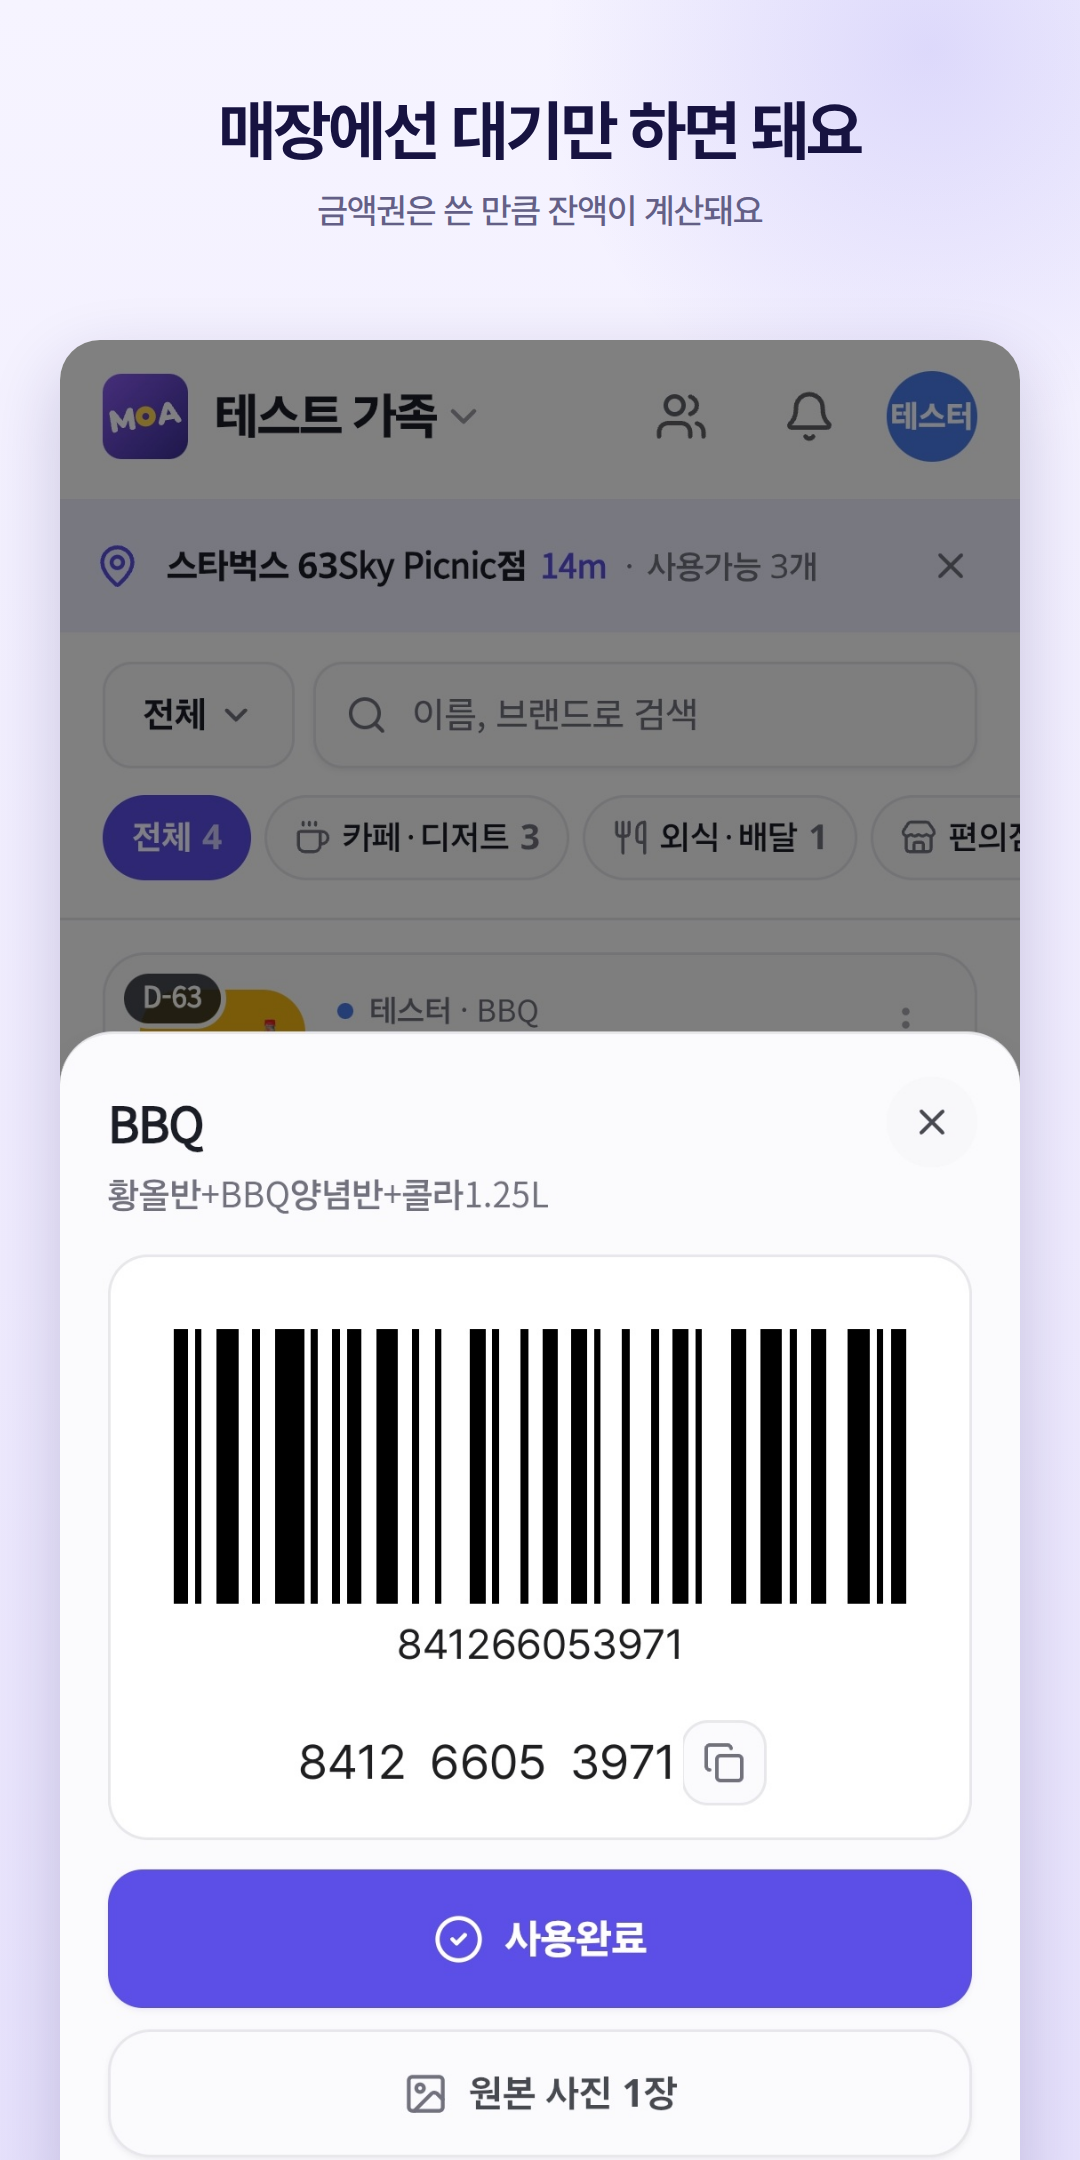
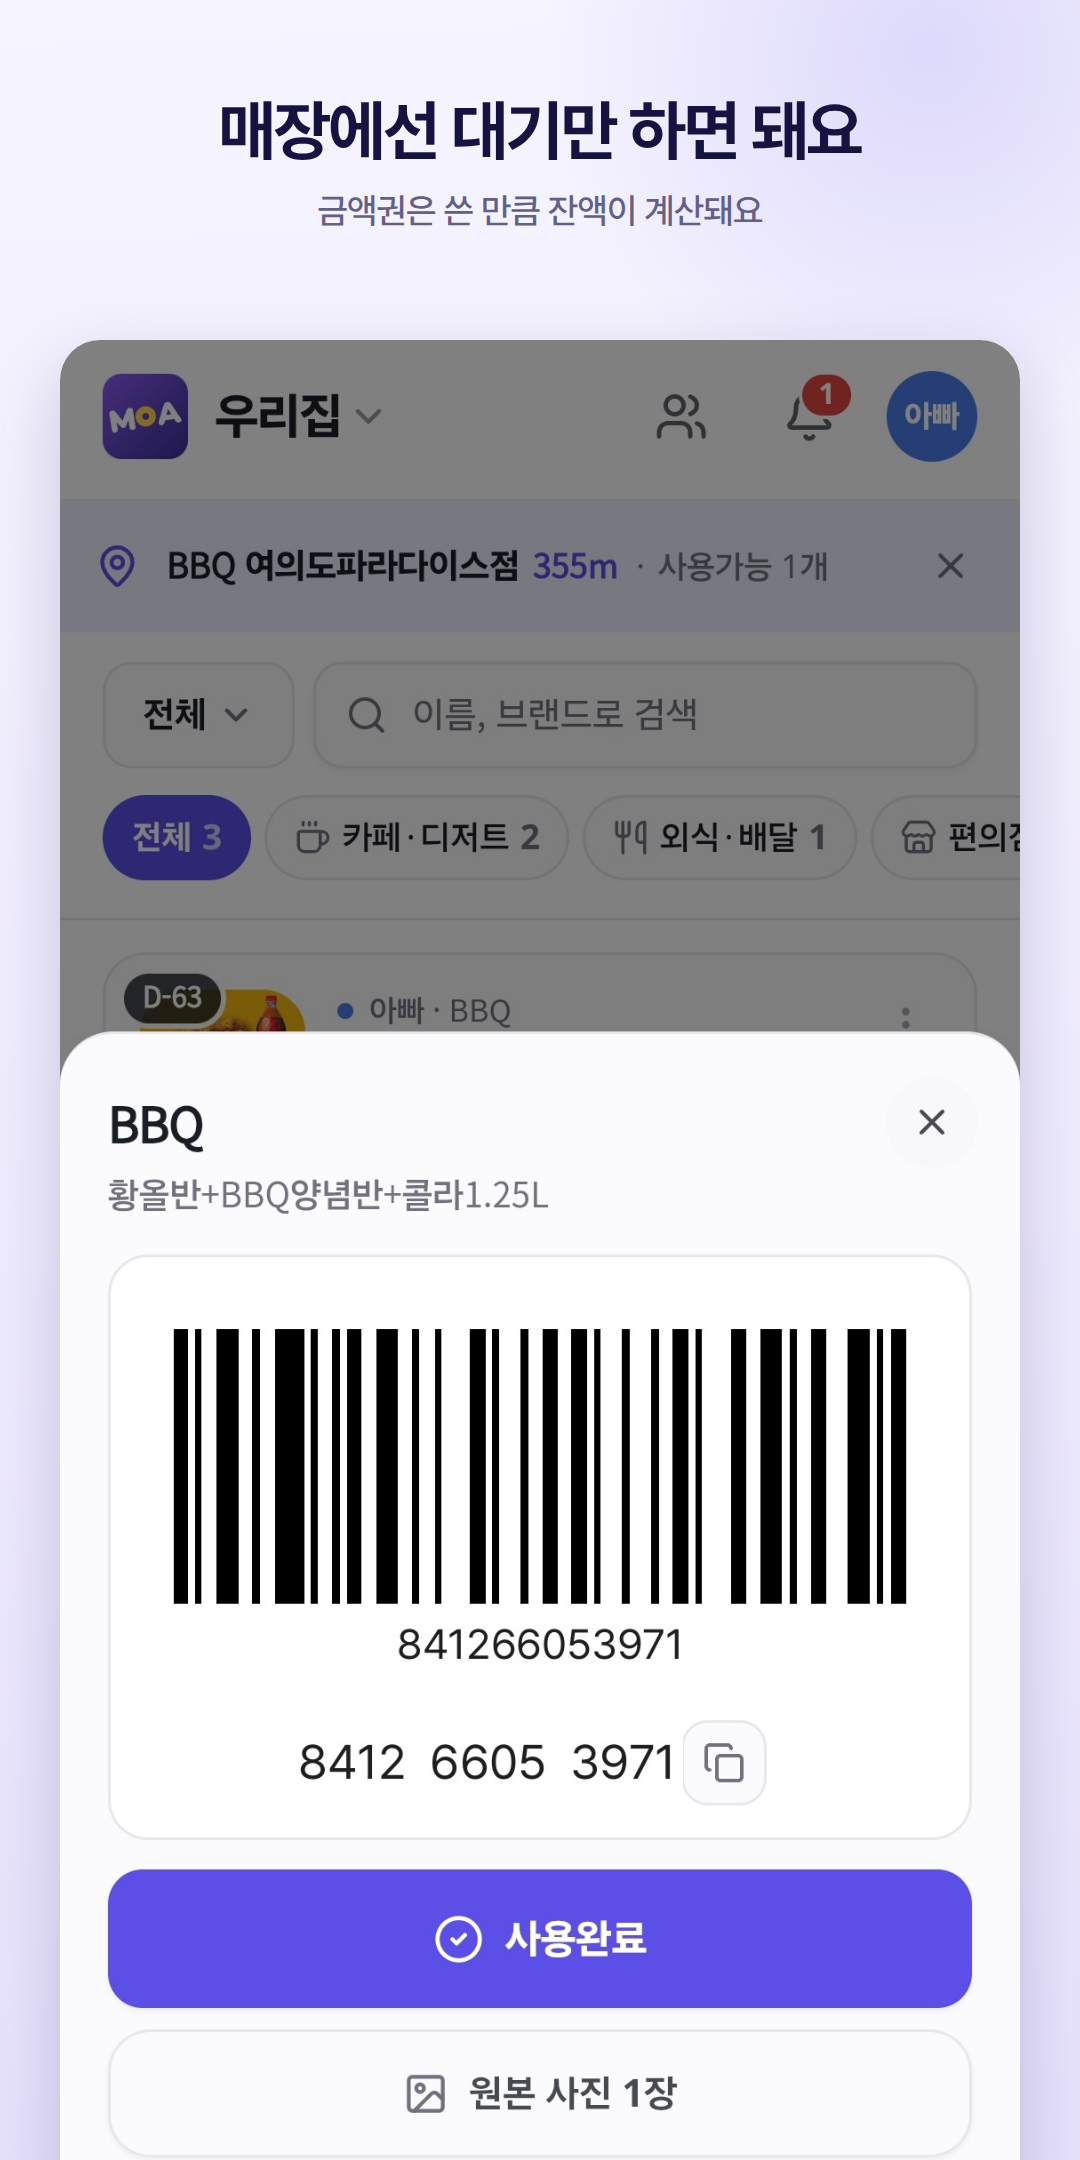
스토어 스크린샷을 우리집·아빠·딸로 다시
가족과 구성원 이름이 '테스트 가족'·'테스터'로 찍혀 있던 것을 실제 이름으로 다시
찍은 것으로 갈았다.

푸시는 이제 실물이다. 참여 신청 알림이 온 잠금화면을 찍었고, 만들어 쓰던 그림은
버렸다. 기한 임박 알림은 그 순간을 붙잡아야 해서 못 찍었으므로 문구에 둘을 함께
적는다 — 앱이 보내는 알림은 그 둘뿐이다.

BBQ 바코드는 이번에도 번호와 막대를 바꿔 넣었다. 상세·등록·미리보기 세 곳이다.

Claude-Session: https://claude.ai/code/session_0162SJJHihdyv8vNrHmvGXqM

diff --git a/docs/store-listing.md b/docs/store-listing.md
@@ -164,7 +164,7 @@ https://ceaser501.github.io/our-home-gift/privacy.html
 | 2 | `assets/marketing/screenshots/02-scan.png` | 사진첩 훑는 중 |
 | 3 | `assets/marketing/screenshots/03-form.png` | 자동으로 채워진 등록 화면 |
 | 4 | `assets/marketing/screenshots/04-barcode.png` | 상세 · 바코드 |
-| 5 | `assets/marketing/screenshots/05-push.png` | 알림 (실물이 없어 앱이 보내는 문구로 만든 것) |
+| 5 | `assets/marketing/screenshots/05-push.png` | 알림 (실제로 온 푸시) |
 | 6 | `assets/marketing/screenshots/06-map.png` | 근처 매장 · 길찾기 |
 | 7 | `assets/marketing/screenshots/07-invite.png` | 가족 초대 |
 | 8 | `assets/marketing/screenshots/08-stats.png` | 사용 내역 |
@@ -185,7 +185,7 @@ https://ceaser501.github.io/our-home-gift/privacy.html
 | 2 | 사진첩 훑는 중 (안드로이드) | 찾는 것부터 앱이 합니다 | 사진첩을 훑어 기프티콘만 골라내요 |
 | 3 | 자동으로 채워진 등록 화면 | 사진만 올리면 끝 | 상품명 · 금액 · 유효기한이 저절로 |
 | 4 | 상세 · 바코드 | 매장에선 대기만 하면 돼요 | 금액권은 쓴 만큼 잔액이 계산돼요 |
-| 5 | 기한 임박 푸시가 뜬 잠금화면 | 기한 놓칠 일이 없어요 | 만료 전에 알림으로 알려드려요 |
+| 5 | 푸시가 뜬 잠금화면 | 중요한 건 폰으로 알려드려요 | 기한 임박 · 가족 참여 신청 |
 | 6 | 근처 매장 지도 · 길찾기 | 쓸 수 있는 곳을 지도에서 | 길찾기 · 전화까지 바로 |
 | 7 | 가족 초대 | 가족이 같은 서랍을 봅니다 | 카카오톡 링크 하나로 초대 |
 | 8 | 사용 내역 | 우리 집이 얼마나 아꼈나 | 누가 언제 썼는지 그대로 남아요 |
@@ -197,16 +197,15 @@ https://ceaser501.github.io/our-home-gift/privacy.html
 **2번은 안드로이드에만 있다.** 사진첩을 훑는 기능은 iOS에 없다. App Store는 스크린샷을
 따로 올리므로, 거기서는 2번을 빼고 7장으로 낸다. Play는 8장 그대로.
 
-5번은 폰에서 찍을 수가 없었다. 알림이 실제로 오는 순간을 붙잡아야 해서다. 그래서
-`supabase/functions/send-expiry-notifications/index.ts:153`이 실제로 보내는 문구를
-그대로 옮겨 만들었다. **문구를 고치면 이 그림도 같이 고쳐야 한다.**
+5번에 찍힌 것은 **참여 신청 알림**이다. 기한 임박 알림은 그 순간을 붙잡아야 찍을 수
+있어서 못 찍었다. 그래서 문구는 둘을 함께 적었다 — 앱이 보내는 알림은 이 둘뿐이고
+(`supabase/functions/send-expiry-notifications`, `notify-join-request`), 그림은 그중
+하나를 보여주는 것이다.
 
 5번의 「알림」은 **푸시**다. 헤더의 종은 가족이 올리거나 쓴 소식과 공지가 쌓이는 자리라
 기한과 관계가 없다(`client/src/components/NotificationBell.jsx:17`).
 
 ### 다시 찍는다면
 
-- **가족 이름이 「테스트 가족」, 구성원이 「테스터」·「테스터2」로 찍혔다.** 스토어에
-  그대로 나간다. 앱에서 이름을 바꾸고 1·7·8번만 다시 찍으면 훨씬 낫다.
 - **이미 쓴 기프티콘으로 찍는다.** 살아 있는 번호는 스토어에 올리면 안 된다.
 - **상호.** 남의 브랜드가 사진에 남는다. 자세한 설명 맨 아래 고지 한 줄이 그 때문이다.
